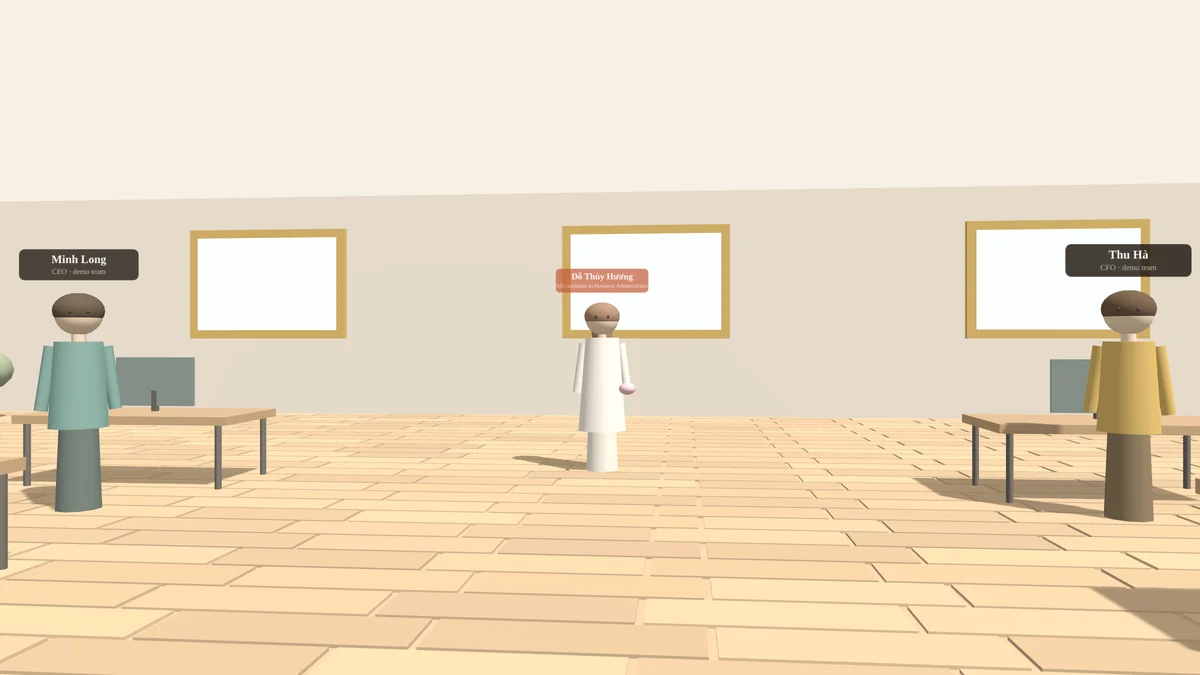
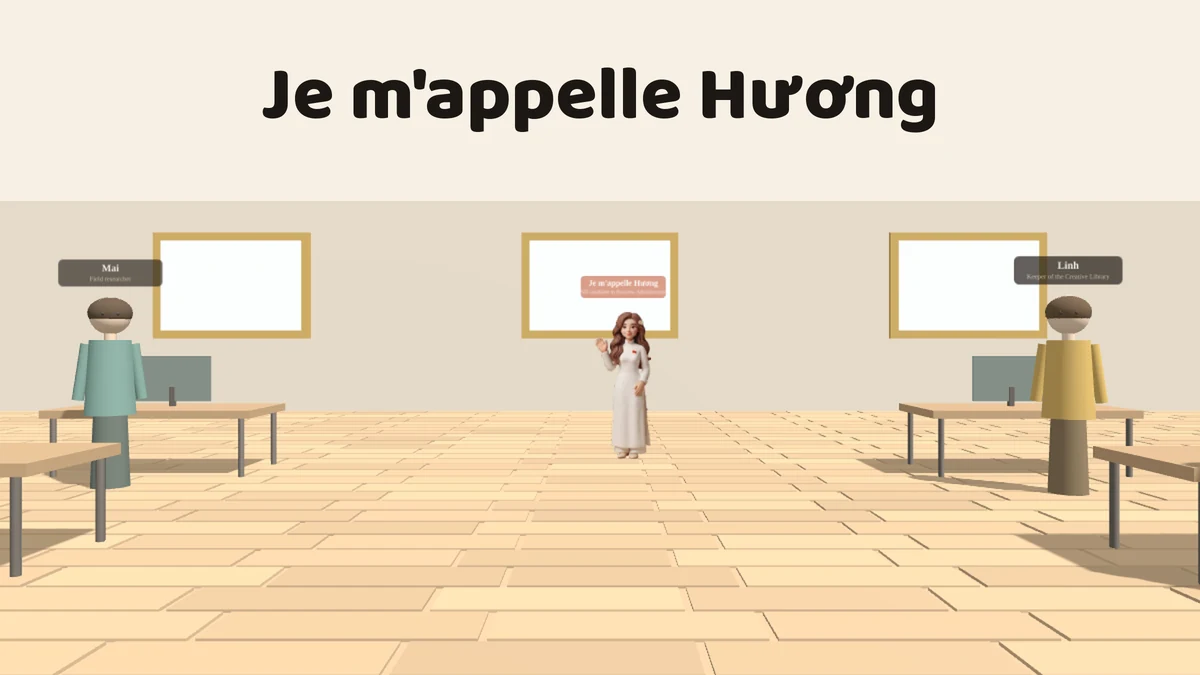
Tên trưng bày thành «Je m'appelle Hương», và chụp lại ảnh bìa
Chị Hương chọn phạm vi HẸP: chỉ phần trưng bày. Tên thật giữ nguyên ở LICENSE,
CITATION.cff, .zenodo.json và bản ghi Zenodo - bốn chỗ ấy là hồ sơ pháp lý và
trích dẫn, mà trường tác giả còn gắn với ORCID 0000-0002-7711-2487; đổi thành
bút danh thì Google Scholar có thể không ghép được công trình với hồ sơ.

Năm chỗ đã đổi trong index.html: thẻ tên góc phải, tên nhân vật trong bảng hỏi
đáp, hai câu tự giới thiệu, và meta description. README đổi hai câu giới thiệu
nhân vật, GIỮ nguyên hai dòng bản quyền.

Câu chào: bỏ luôn chỗ nhắc tên
------------------------------
Bản đầu viết «mình là Hương — Je m'appelle Hương», mà bảng hội thoại vốn đã in
tên người nói ở đầu dòng, nên đọc lên thành ba lần tên liền nhau:

  Je m'appelle Hương: Chào bạn, mình là Hương — Je m'appelle Hương. …

Nay câu chào vào thẳng nội dung, để nhãn người nói làm việc giới thiệu.

Ảnh bìa: chụp lại vì nó đã lạc hậu
----------------------------------
Ảnh cũ chụp từ TRƯỚC PR #59/#60 - vẫn còn «Minh Long · CEO · demo team» và
«Thu Hà · CFO · demo team», còn Hương thì là khối đất sét chứ chưa phải tranh
áo dài. Năm nhân vật ấy không còn trong phòng nữa, nên ảnh bìa đang giới thiệu
một căn phòng không tồn tại.

Ảnh mới chụp từ cảnh hiện tại (Mai, Linh, tranh áo dài), ẩn hết cụm nổi để chỉ
còn cảnh 3D, rồi đặt dòng chữ vào dải trần.

Ba con số khi đặt chữ, đo chứ không ướm:
- dải trần đo được cao đúng 200px, màu #F8F0E4; chữ đặt vào giữa dải ấy;
[…]

diff --git a/index.html b/index.html
@@ -8,7 +8,7 @@
 <link rel="icon" href="favicon.ico" sizes="48x48">
 <link rel="apple-touch-icon" href="icons/apple-touch-icon.png">
 <title>Văn phòng nghiên cứu · Research Office - Je m'appelle Hương</title>
-<meta name="description" content="A small 3D research office of Do Thuy Huong: walk in, meet the five estate characters and read what the dissertation actually studies. Answers are written in advance - nothing is generated live.">
+<meta name="description" content="A small 3D research office of Je m'appelle Hương: walk in, meet the five estate characters and read what the dissertation actually studies. Answers are written in advance - nothing is generated live.">
 <meta name="theme-color" content="#f6f1e7">
 <meta name="apple-mobile-web-app-title" content="Hương">
 <meta property="og:title" content="Văn phòng nghiên cứu · Research Office - Je m'appelle Hương">
@@ -140,7 +140,7 @@ html[lang=fr] .l-en{display:inline}
 </div>
 
 <div id="the" class="hop">
-  <b>Đỗ Thùy Hương</b>
+  <b>Je m'appelle Hương</b>
   <span class="l-vi">Nghiên cứu sinh Quản trị kinh doanh<br>Trường Kinh tế, Đại học Cần Thơ</span>
   <span class="l-en">PhD candidate in Business Administration<br>School of Economics, Can Tho University</span>
 </div>
@@ -241,12 +241,12 @@ document.getElementById('ng-en').onclick = function () { datNgonNgu('en'); };
 var NGUOI = [
   {
     id: 'huong', chu: true,
-    ten: 'Đỗ Thùy Hương',
+    ten: "Je m'appelle Hương",
     vai: { vi: 'Nghiên cứu sinh Quản trị kinh doanh', en: 'PhD candidate in Business Administration' },
     cho: [0, -3.4], ao: '#fffcf5', quan: '#f4efe4', da: '#f0c9a8', toc: '#6b4430', dai: true,
     chao: {
-      vi: 'Chào bạn. Mình là Đỗ Thùy Hương, nghiên cứu sinh Quản trị kinh doanh ở Trường Kinh tế, Đại học Cần Thơ. Luận án của mình về quốc tế hóa và hiệu quả hoạt động kinh doanh của doanh nghiệp châu Á. Cứ hỏi nhé — các câu dưới đây mình đã viết sẵn câu trả lời.',
-      en: "Hello. I'm Do Thuy Huong, a PhD candidate in Business Administration at the School of Economics, Can Tho University. My dissertation is on internationalization and firm performance among Asian enterprises. Ask away — the answers below are written in advance."
+      vi: 'Chào bạn. Mình là nghiên cứu sinh Quản trị kinh doanh ở Trường Kinh tế, Đại học Cần Thơ. Luận án của mình về quốc tế hóa và hiệu quả hoạt động kinh doanh của doanh nghiệp châu Á. Cứ hỏi nhé — các câu dưới đây mình đã viết sẵn câu trả lời.',
+      en: "Hello. I'm a PhD candidate in Business Administration at the School of Economics, Can Tho University. My dissertation is on internationalization and firm performance among Asian enterprises. Ask away — the answers below are written in advance."
     },
     hoi: [
       { q: { vi: 'Luận án của chị nghiên cứu gì?', en: 'What does your dissertation study?' },

diff --git a/README.md b/README.md
@@ -16,7 +16,7 @@ chạy**.
 
 ## Trong phòng có gì
 
-**Sáu nhân vật.** Đỗ Thùy Hương là người thật, và trả lời tám câu về luận án,
+**Sáu nhân vật.** Je m'appelle Hương là người thật, và trả lời tám câu về luận án,
 khung dữ liệu, các học phần đang dạy. Năm người còn lại — Mai, Linh, Tùng, An,
 Minh — là **nhân vật hư cấu**, mượn từ cảnh «Trang viên tri thức» của trang học
 thuật cá nhân; mỗi bảng hội thoại đều ghi rõ điều ấy. Họ trả lời về khung dữ
@@ -115,7 +115,7 @@ and stored in the page — **nothing is generated at run time**.
 
 [![DOI](https://zenodo.org/badge/DOI/10.5281/zenodo.22971293.svg)](https://doi.org/10.5281/zenodo.22971293)
 
-**Six characters.** Đỗ Thùy Hương is real, and answers eight questions about
+**Six characters.** Je m'appelle Hương is real, and answers eight questions about
 the dissertation, the data frame and the courses she teaches. The other five —
 Mai, Linh, Tùng, An, Minh — are **fictional characters** carried over from the
 knowledge-estate scene of the author's academic homepage, and every dialogue
